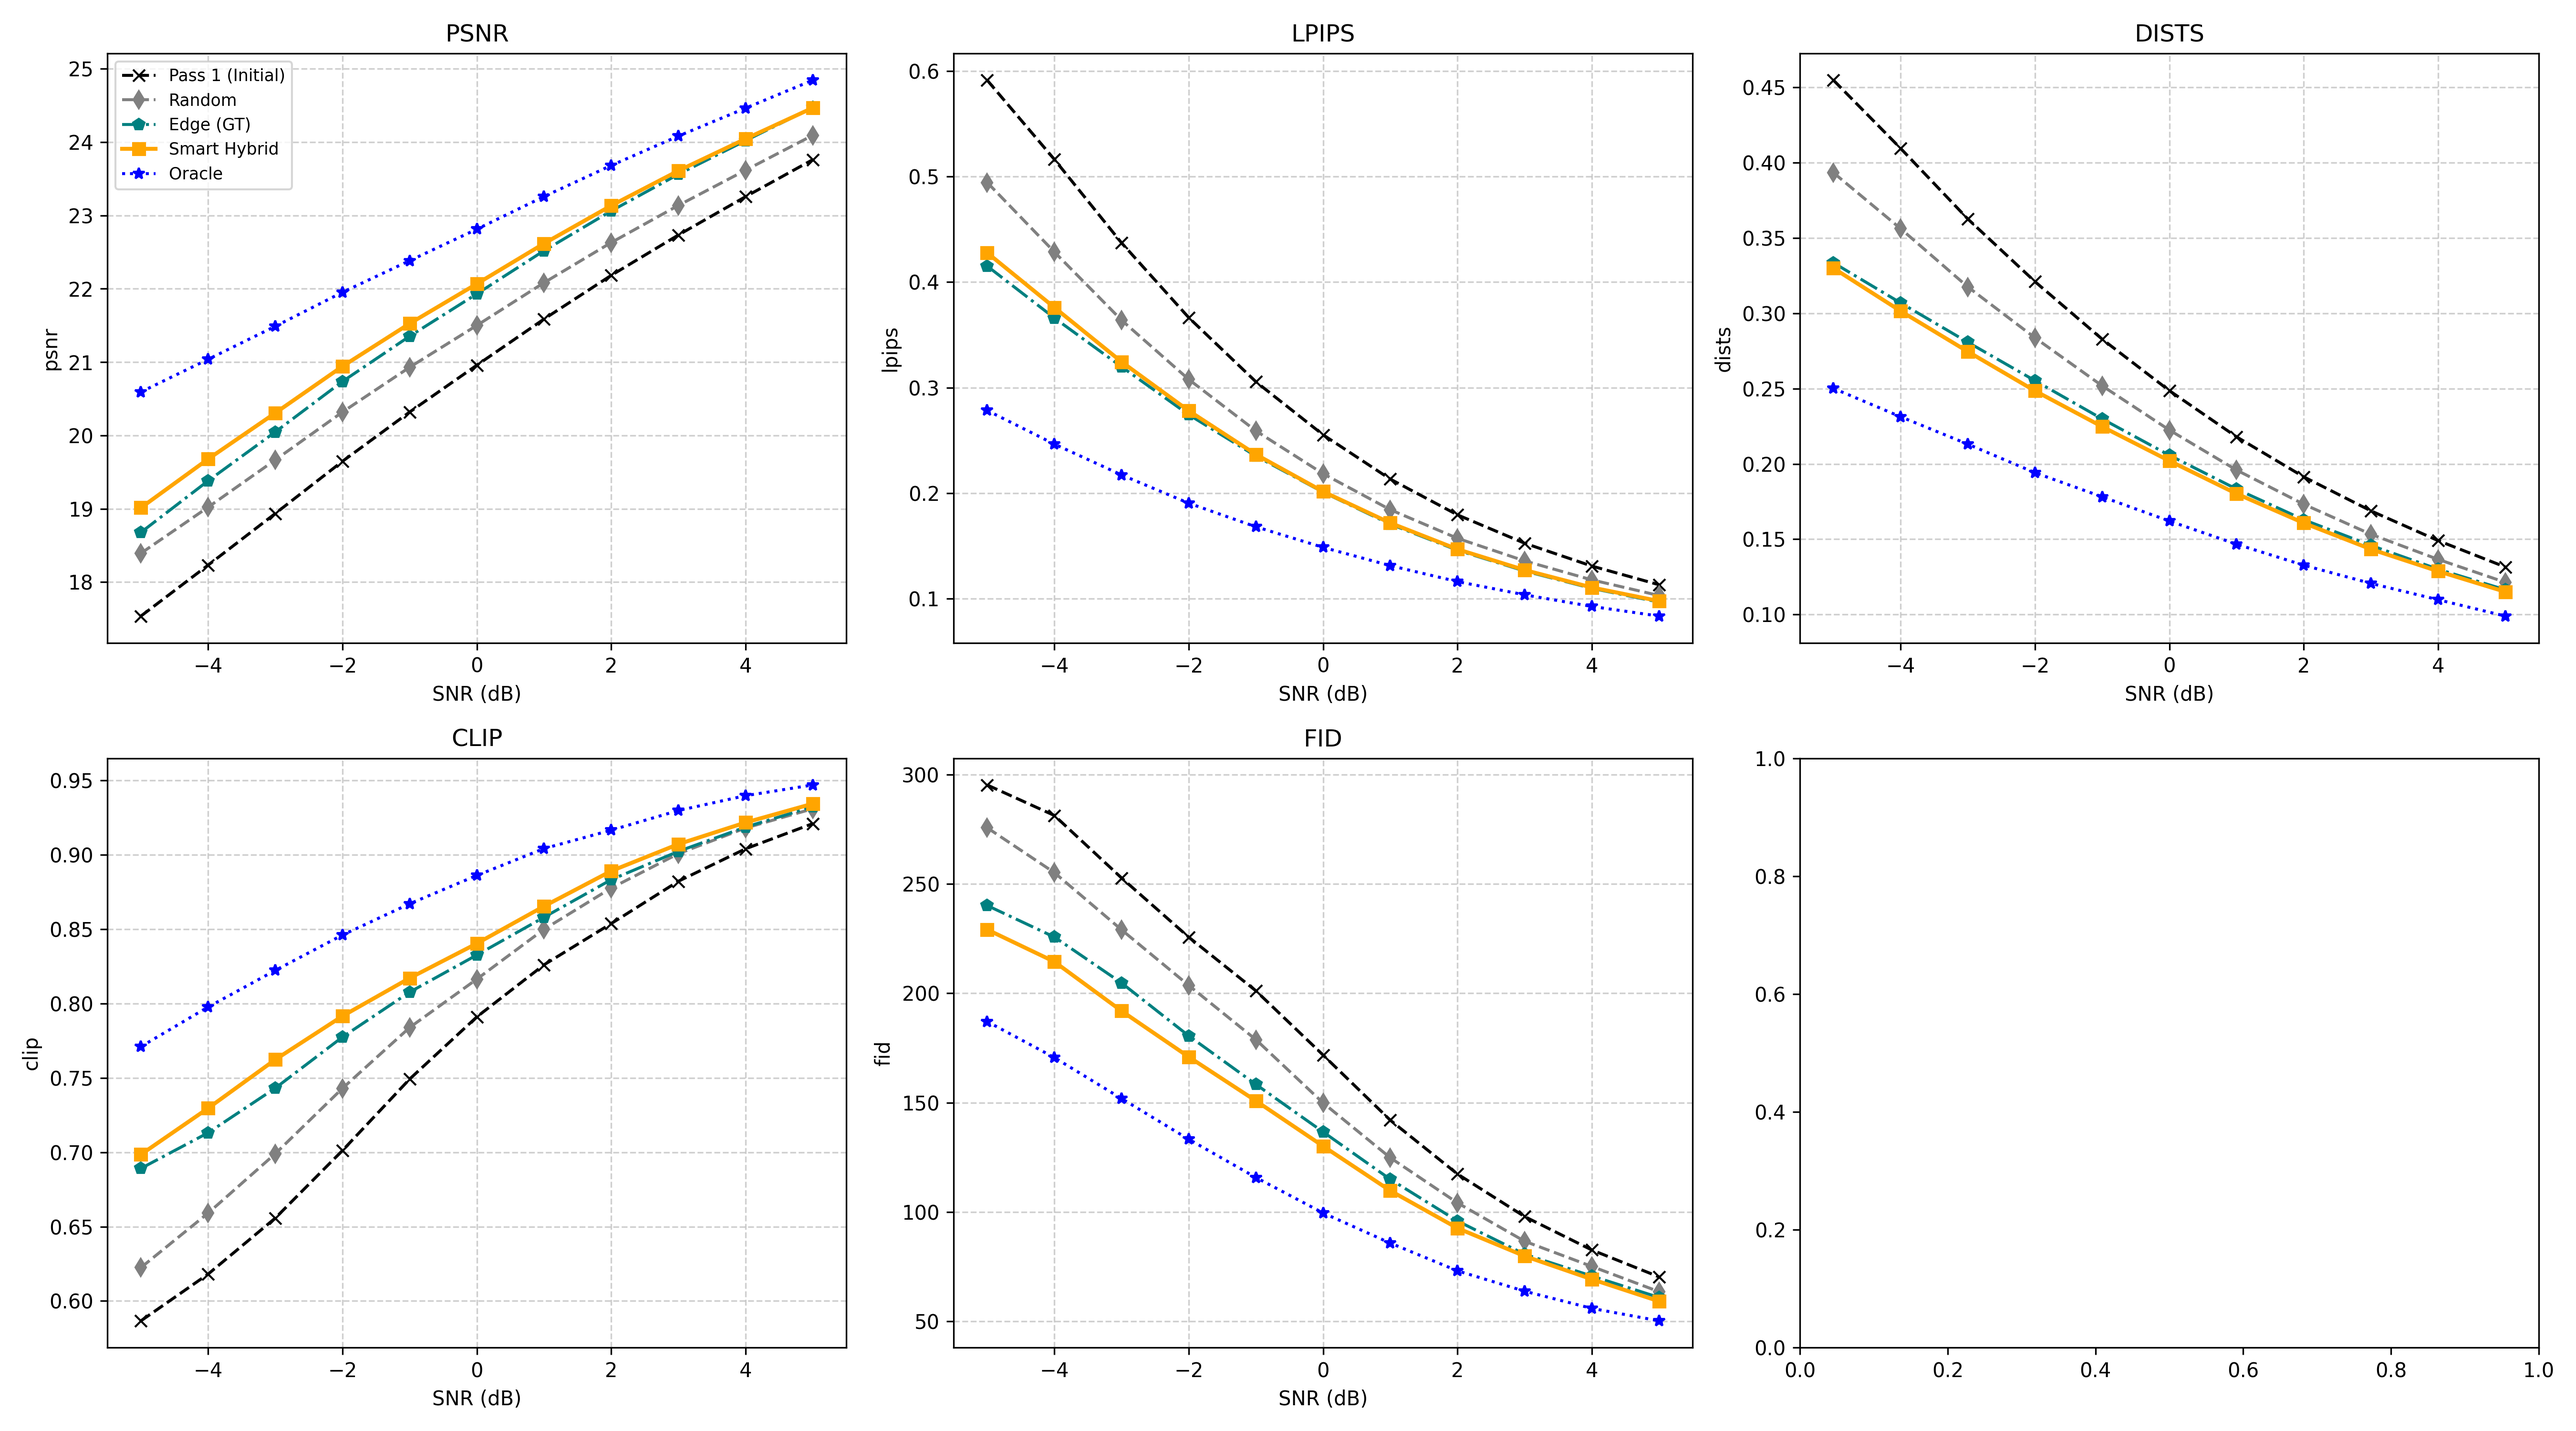
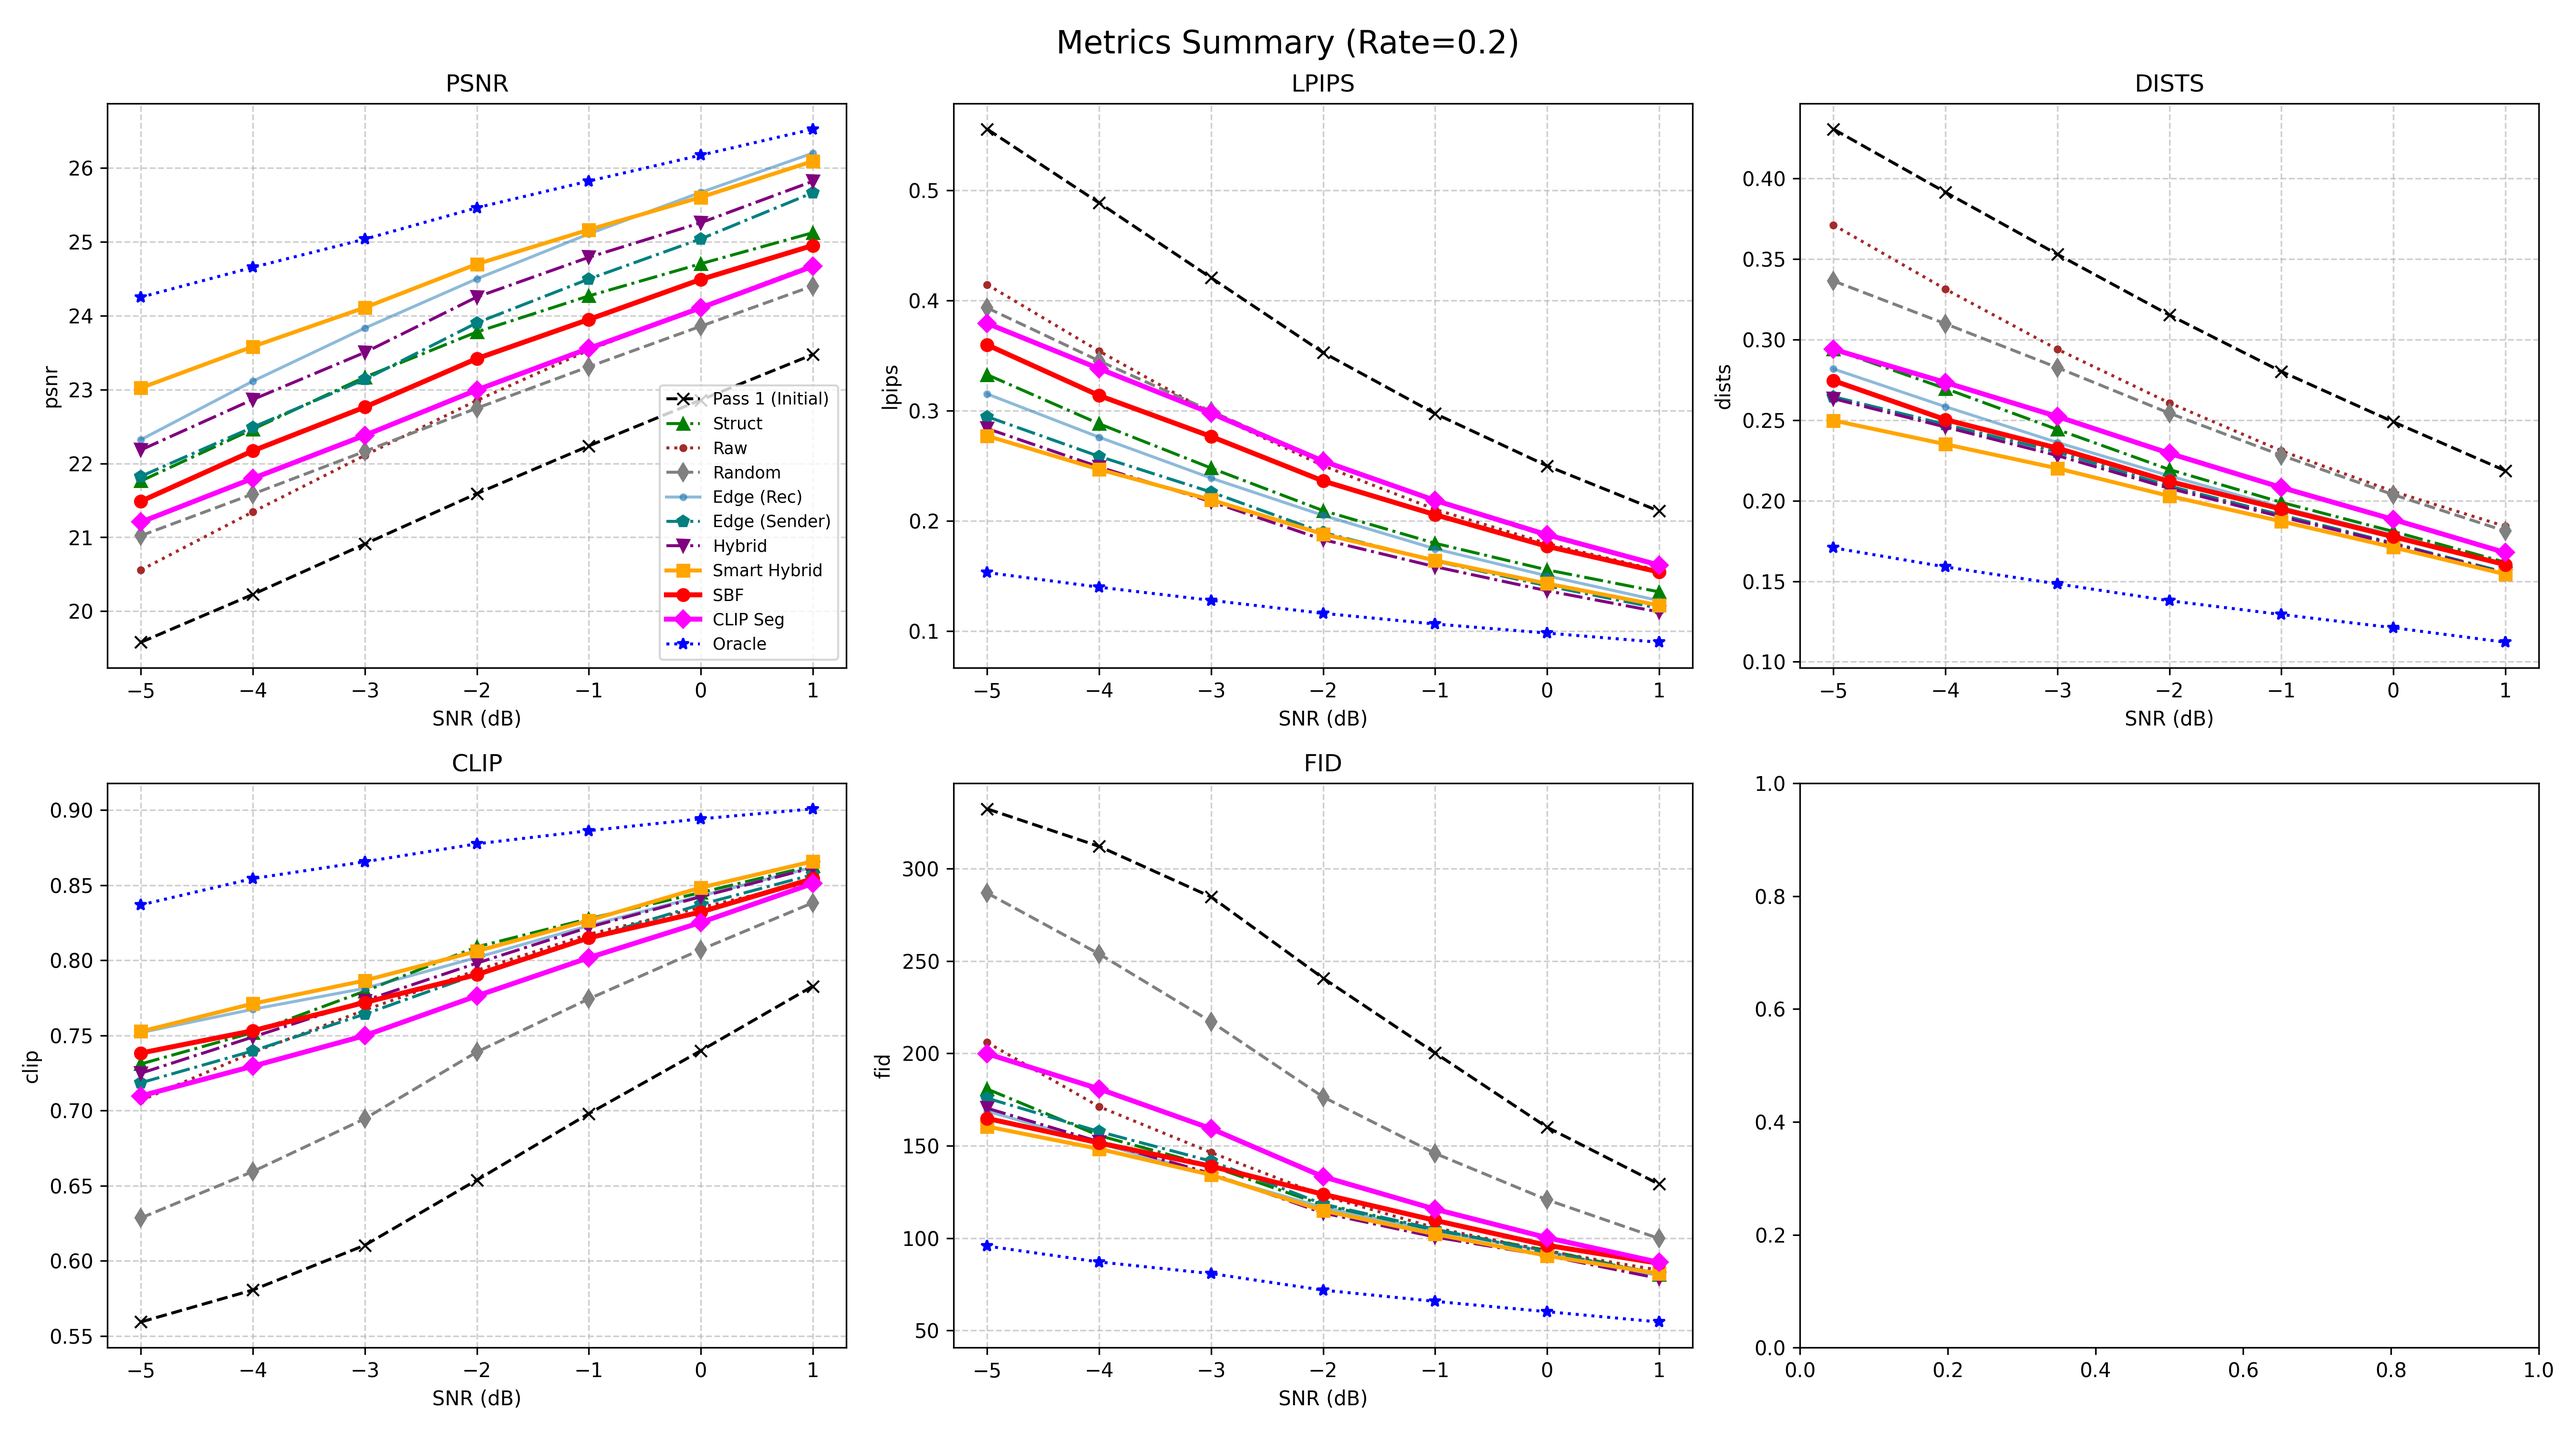
bdd

diff --git a/plot_metrics.py b/plot_metrics.py
@@ -17,22 +17,30 @@ OUTPUT_IMAGE = "metrics_summary_plot.png"
 # 1. プロットしたいSNRのリスト
 # None または空リスト [] にすると、すべてのSNRをプロットします。
 # TARGET_SNRS = [1.0, 2.0, 3.0, 4.0, 5.0]
-TARGET_SNRS = [-5.0, -4.0, -3.0, -2.0]
+
 TARGET_SNRS = None 
+TARGET_SNRS = [1.0, 2.0, 3.0, 4.0, 5.0]
+TARGET_SNRS = [-5.0, -4.0, -3.0,-2.0, -1.0, 0.0, 1.0]
+# 1.5. 【新規追加】 プロットしたい再送率 (Rate) の設定
+# ファイル名 (例: metrics_snr-1.0_rate0.2_alpha0.0.json) の "rate" 部分を指定します。
+# 指定した Rate のファイルのみを読み込みます。
+# None に設定するとフィルタリングしません（同じSNRでRateが異なるとデータが上書きされる可能性があります）。
+TARGET_RATE = 0.1
+TARGET_RATE = 0.2
 
 # 2. プロットしたい手法のリスト
 # 必要なものだけコメントアウトを外して選んでください。
 TARGET_METHODS = [
     "pass1",
-    #"pass2_structural",
-    #"pass2_raw",
+    "pass2_structural",
+    "pass2_raw",
     "pass2_random",
-    #"pass2_edge_rec",
+    "pass2_edge_rec",
     "pass2_edge_gt",
-    #"pass2_hybrid",
+    "pass2_hybrid",
     "pass2_smart_hybrid",
-    #"pass2_sbf",       # 既存提案手法
-    #"pass2_clip_seg",  # <--- 【新規追加】 CLIP PSS 手法
+    "pass2_sbf",       # 既存提案手法
+    "pass2_clip_seg",  # <--- 【新規追加】 CLIP PSS 手法
     "pass2_oracle"
 ]
 # TARGET_METHODS = None  # 全てプロットする場合はこちら
@@ -47,7 +55,7 @@ METHOD_LABELS = {
     "pass2_raw": "Raw",
     "pass2_random": "Random",
     "pass2_edge_rec": "Edge (Rec)",
-    "pass2_edge_gt": "Edge (GT)",
+    "pass2_edge_gt": "Edge (Sender)",
     "pass2_hybrid": "Hybrid",
     "pass2_smart_hybrid": "Smart Hybrid",
     "pass2_sbf": "SBF ",
@@ -86,17 +94,37 @@ def load_data(root_dir):
 
     data_store = {} 
     print(f"Found {len(files)} metric files.")
+    
+    if TARGET_RATE is not None:
+        print(f"Filtering for Rate: {TARGET_RATE}")
 
+    count_loaded = 0
     for fpath in files:
-        # SNR抽出
+        # --- SNR抽出 ---
         match = re.search(r"snr(-?\d+\.?\d*)", fpath)
         if not match:
+            # フォルダ名も検索
             match = re.search(r"snr(-?\d+\.?\d*)", os.path.dirname(fpath))
         
         if match:
             snr = float(match.group(1))
         else:
             continue
+
+        # --- Rate抽出 (新規追加) ---
+        match_rate = re.search(r"rate(\d+\.?\d*)", fpath)
+        if match_rate:
+            file_rate = float(match_rate.group(1))
+        else:
+            # ファイル名にrateが含まれない場合、デフォルトで0.1とみなすか、
+            # あるいはrate情報なしとして扱う。
+            # ここでは既存ファイルとの互換性のため 0.1 をデフォルトとします。
+            file_rate = 0.1
+        
+        # 指定されたRate以外はスキップ
+        if TARGET_RATE is not None:
+            if not np.isclose(file_rate, TARGET_RATE):
+                continue
 
         try:
             with open(fpath, 'r') as f:
@@ -121,10 +149,13 @@ def load_data(root_dir):
                 
                 if method in fids and fids[method] is not None:
                     data_store[snr][method]["fid"] = fids[method]
+            
+            count_loaded += 1
 
         except Exception as e:
             print(f"Error reading {fpath}: {e}")
 
+    print(f"Loaded {count_loaded} files matching Rate={TARGET_RATE}.")
     return data_store
 
 # ==========================================
@@ -132,6 +163,7 @@ def load_data(root_dir):
 # ==========================================
 def plot_results(data_store):
     if not data_store:
+        print("No data stored. Please check your data directory or filters.")
         return
 
     # --- 1. SNRのフィルタリング ---
@@ -208,6 +240,7 @@ def plot_results(data_store):
         if idx == 0:
             ax.legend(fontsize='small', loc='best')
 
+    plt.suptitle(f"Metrics Summary (Rate={TARGET_RATE})", fontsize=16)
     plt.tight_layout()
     plt.savefig(OUTPUT_IMAGE, dpi=300)
     print(f"Graph saved to: {os.path.abspath(OUTPUT_IMAGE)}")

diff --git a/download_bdd100k_sample.py b/download_bdd100k_sample.py
@@ -1,0 +1,97 @@
+import os
+import time
+import numpy as np
+from datasets import load_dataset
+from PIL import Image, ImageStat
+from tqdm import tqdm
+
+def is_valid_image(img, brightness_thr=15, std_thr=5):
+    """
+    画像が適切か判定するフィルタリング関数
+    - brightness_thr: 平均輝度の下限（これより暗ければ真っ黒とみなす）
+    - std_thr: 色のばらつき（標準偏差）の下限（これが低いと単色・グレー画像）
+    """
+    try:
+        # グレースケールで輝度を確認
+        gray_img = img.convert("L")
+        stat = ImageStat.Stat(gray_img)
+        mean_brightness = stat.mean[0]
+        std_dev = stat.stddev[0]
+
+        # 条件: 「明るさが一定以上」かつ「単色ではない（情報がある）」
+        if mean_brightness < brightness_thr:
+            return False, f"暗すぎます (輝度: {mean_brightness:.1f})"
+        
+        if std_dev < std_thr:
+            return False, f"情報量が少なすぎます (Std: {std_dev:.1f})"
+
+        return True, "OK"
+    except Exception as e:
+        return False, f"判定エラー: {e}"
+
+def download_and_process_clean_bdd100k(output_dir, num_images=100, target_size=(256, 256)):
+    if not os.path.exists(output_dir):
+        os.makedirs(output_dir)
+
+    print(f"BDD100K(train)から品質チェックを行いながら {num_images} 枚を取得します...")
+
+    try:
+        # ストリーミングモードでロード
+        dataset = load_dataset("dgural/bdd100k", split="train", streaming=True)
+        # ランダムシャッフル
+        dataset = dataset.shuffle(seed=int(time.time()), buffer_size=1000)
+    except Exception as e:
+        print(f"データセット設定エラー: {e}")
+        return
+
+    count = 0
+    skipped_count = 0
+    
+    # プログレスバー
+    pbar = tqdm(total=num_images)
+
+    for i, sample in enumerate(dataset):
+        if count >= num_images:
+            break
+
+        try:
+            img = sample['image']
+            
+            # --- 1. 品質チェック (ここを追加) ---
+            valid, reason = is_valid_image(img)
+            if not valid:
+                skipped_count += 1
+                # ログが多すぎる場合はコメントアウトしてください
+                # print(f"Skip: {reason}")
+                continue
+
+            # --- 2. 画像加工 ---
+            if img.mode != "RGB":
+                img = img.convert("RGB")
+            
+            # 高品質リサイズ
+            img_resized = img.resize(target_size, Image.Resampling.LANCZOS)
+
+            # --- 3. 保存 ---
+            filename = f"bdd100k_clean_{count:04d}.png"
+            save_path = os.path.join(output_dir, filename)
+            
+            img_resized.save(save_path, "PNG")
+            
+            count += 1
+            pbar.update(1)
+
+        except Exception as e:
+            print(f"処理エラー: {e}")
+
+    pbar.close()
+    print(f"--- 完了 ---")
+    print(f"保存枚数: {count}枚")
+    print(f"除外枚数: {skipped_count}枚 (暗い/破損)")
+    print(f"保存先: {output_dir}")
+
+# --- 設定 ---
+OUTPUT_DIR = "data/bdd100k_clean_256"
+
+if __name__ == "__main__":
+    download_and_process_clean_bdd100k(OUTPUT_DIR, num_images=100)

diff --git a/scripts/img2img_hybrid.py b/scripts/img2img_hybrid.py
@@ -575,7 +575,7 @@ def evaluate_and_save(x_rec, batch_input, batch_files, batch_out_dir, suffix,
 def main():
     global CLIP_AVAILABLE
     parser = argparse.ArgumentParser(description="DiffCom Retransmission Simulation (Text2Img)")
-    parser.add_argument("--input_dir", type=str, default="data/bdd100k_clean_256")
+    parser.add_argument("--input_dir", type=str, default="input_dir")
     parser.add_argument("--output_dir", type=str, default="results_text2img/")
     parser.add_argument("--snr", type=float, default=-3.0)
     parser.add_argument("-r","--retransmission_rate", type=float, default=0.2)
